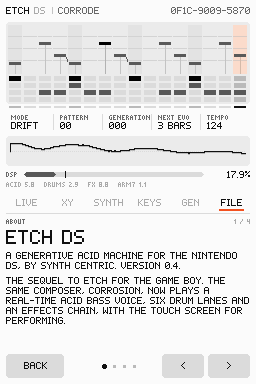
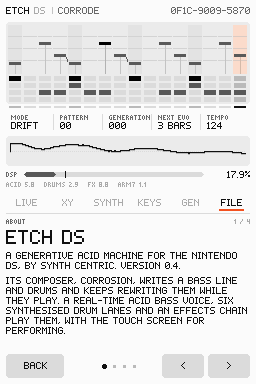
ETCH DS 0.4: ABOUT and manual read as a standalone release
Claude-Session: https://claude.ai/code/session_01P79eMKsidhtYV1SaL3tDMu

Changed region(s): [[0.0312, 0.7188, 0.9688, 0.875]]

diff --git a/arm9/source/ui.c b/arm9/source/ui.c
@@ -1344,22 +1344,23 @@ static uint16_t fl_msg_col;
 static uint32_t fl_sig = 0xFFFFFFFF;
 
 
-/* ---- ABOUT (from FILE), as on ETCH and ETCH II ------------------------------ */
+/* ---- ABOUT (from FILE): four pages, standalone ------------------------------- */
 #define N_ABOUT 4
 static const char * const about_title[N_ABOUT] = { "ETCH DS", "GENERATIVE MUSIC", "SYNTH CENTRIC", "CREDITS" };
 static const char * const about_text[N_ABOUT] = {
     "A generative acid machine for the Nintendo DS, by Synth Centric. Version " ETCH_DS_VERSION ".\n"
-    "The sequel to ETCH for the Game Boy. The same composer, CORROSION, now plays a real-time acid bass voice, "
-    "six drum lanes and an effects chain, with the touch screen for performing.",
+    "Its composer, CORROSION, writes a bass line and drums and keeps rewriting them while they play. "
+    "A real-time acid bass voice, six synthesised drum lanes and an effects chain play them, "
+    "with the touch screen for performing.",
     "Generative music is made by a system of rules and chance instead of being fixed note by note.\n"
     "CORROSION composes a bass line and drums from a seed. In DRIFT or CORRODE it keeps rewriting them, "
-    "so every listen is different. A 12-digit ETCH seed code makes the same groove on Game Boy, "
-    "Game Boy Advance and DS.",
+    "so every listen is different. A 12-digit seed code always makes the same groove: "
+    "share the code to share the song.",
     "Dan Schwebel, known as Synth Centric, is an Australian beat maker, music producer, writer and educator.\n"
-    "ETCH, ETCH II and ETCH DS are Synth Centric releases.",
+    "ETCH DS is a Synth Centric release.",
     "Code: MIT licence.\n"
     "Music, artwork and names: (c) Synth Centric.\n"
-    "CORROSION: from ETCH 2.5, MIT, unchanged.\n"
+    "CORROSION: MIT licence.\n"
     "Built with BlocksDS. Every sound is synthesised by the DS; there are no recorded samples.",
 };
 static uint8_t fl_about, ab_page;

diff --git a/docs/ETCH_DS_Manual.md b/docs/ETCH_DS_Manual.md
@@ -16,7 +16,7 @@ ETCH DS turns a Nintendo DS into an acid machine that writes its own music. It h
 - **CORROSION**, the composer from ETCH for the Game Boy, byte for byte. It writes a bass line and drums from a seed, and keeps rewriting them while they play.
 - **The touch screen** for performing: an XY pad, a two-octave keyboard, knobs and pads.
 
-ETCH DS is part of a series: **ETCH** (Game Boy), **ETCH II** (Game Boy Advance), **ETCH DS** and **ETCH 3DS**. They share one composer, one set of controls and one look. A 12-digit seed code makes the same groove on all of them, and ETCH DS can import songs saved on ETCH and ETCH II.
+Every song can be shared as a 12-digit seed code, and ETCH DS can also import songs saved with ETCH on the Game Boy and ETCH II on the Game Boy Advance (see FILE).
 
 ## 2. Quick start
 

diff --git a/release/ETCH_DS_Manual.md b/release/ETCH_DS_Manual.md
@@ -16,7 +16,7 @@ ETCH DS turns a Nintendo DS into an acid machine that writes its own music. It h
 - **CORROSION**, the composer from ETCH for the Game Boy, byte for byte. It writes a bass line and drums from a seed, and keeps rewriting them while they play.
 - **The touch screen** for performing: an XY pad, a two-octave keyboard, knobs and pads.
 
-ETCH DS is part of a series: **ETCH** (Game Boy), **ETCH II** (Game Boy Advance), **ETCH DS** and **ETCH 3DS**. They share one composer, one set of controls and one look. A 12-digit seed code makes the same groove on all of them, and ETCH DS can import songs saved on ETCH and ETCH II.
+Every song can be shared as a 12-digit seed code, and ETCH DS can also import songs saved with ETCH on the Game Boy and ETCH II on the Game Boy Advance (see FILE).
 
 ## 2. Quick start
 
